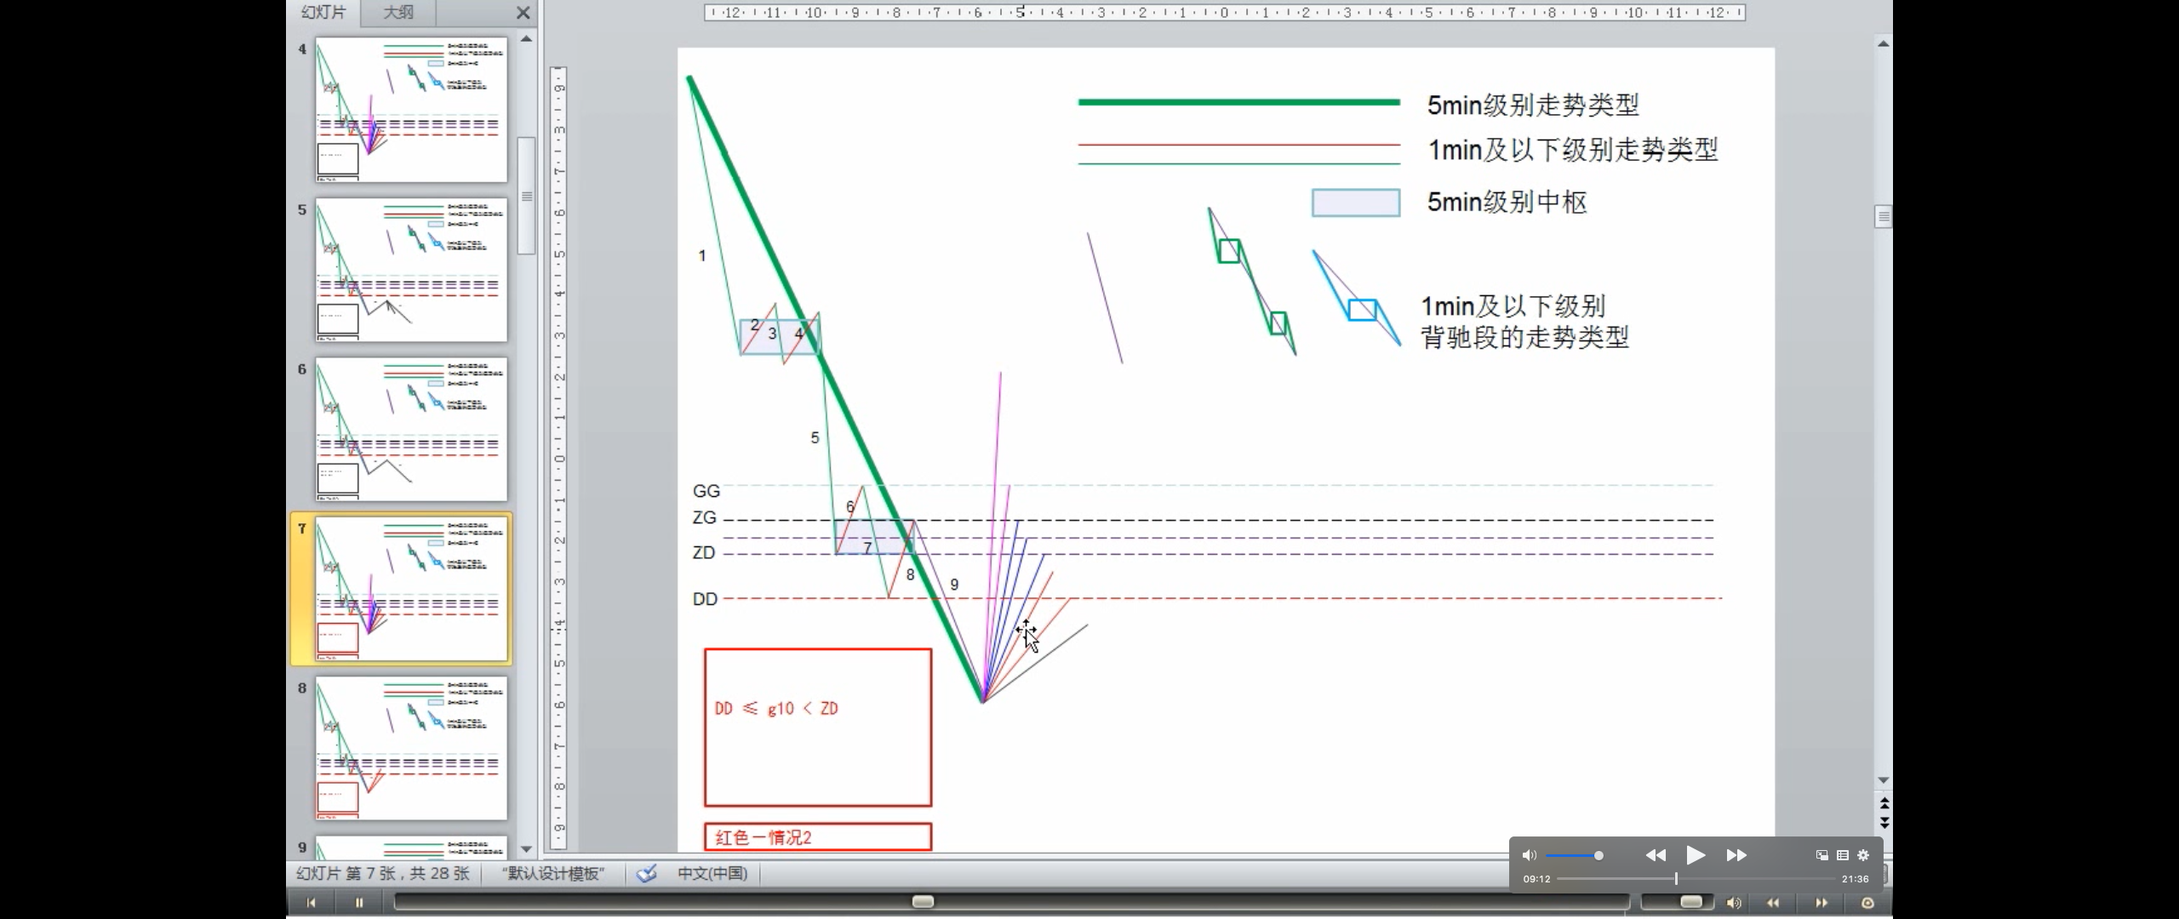
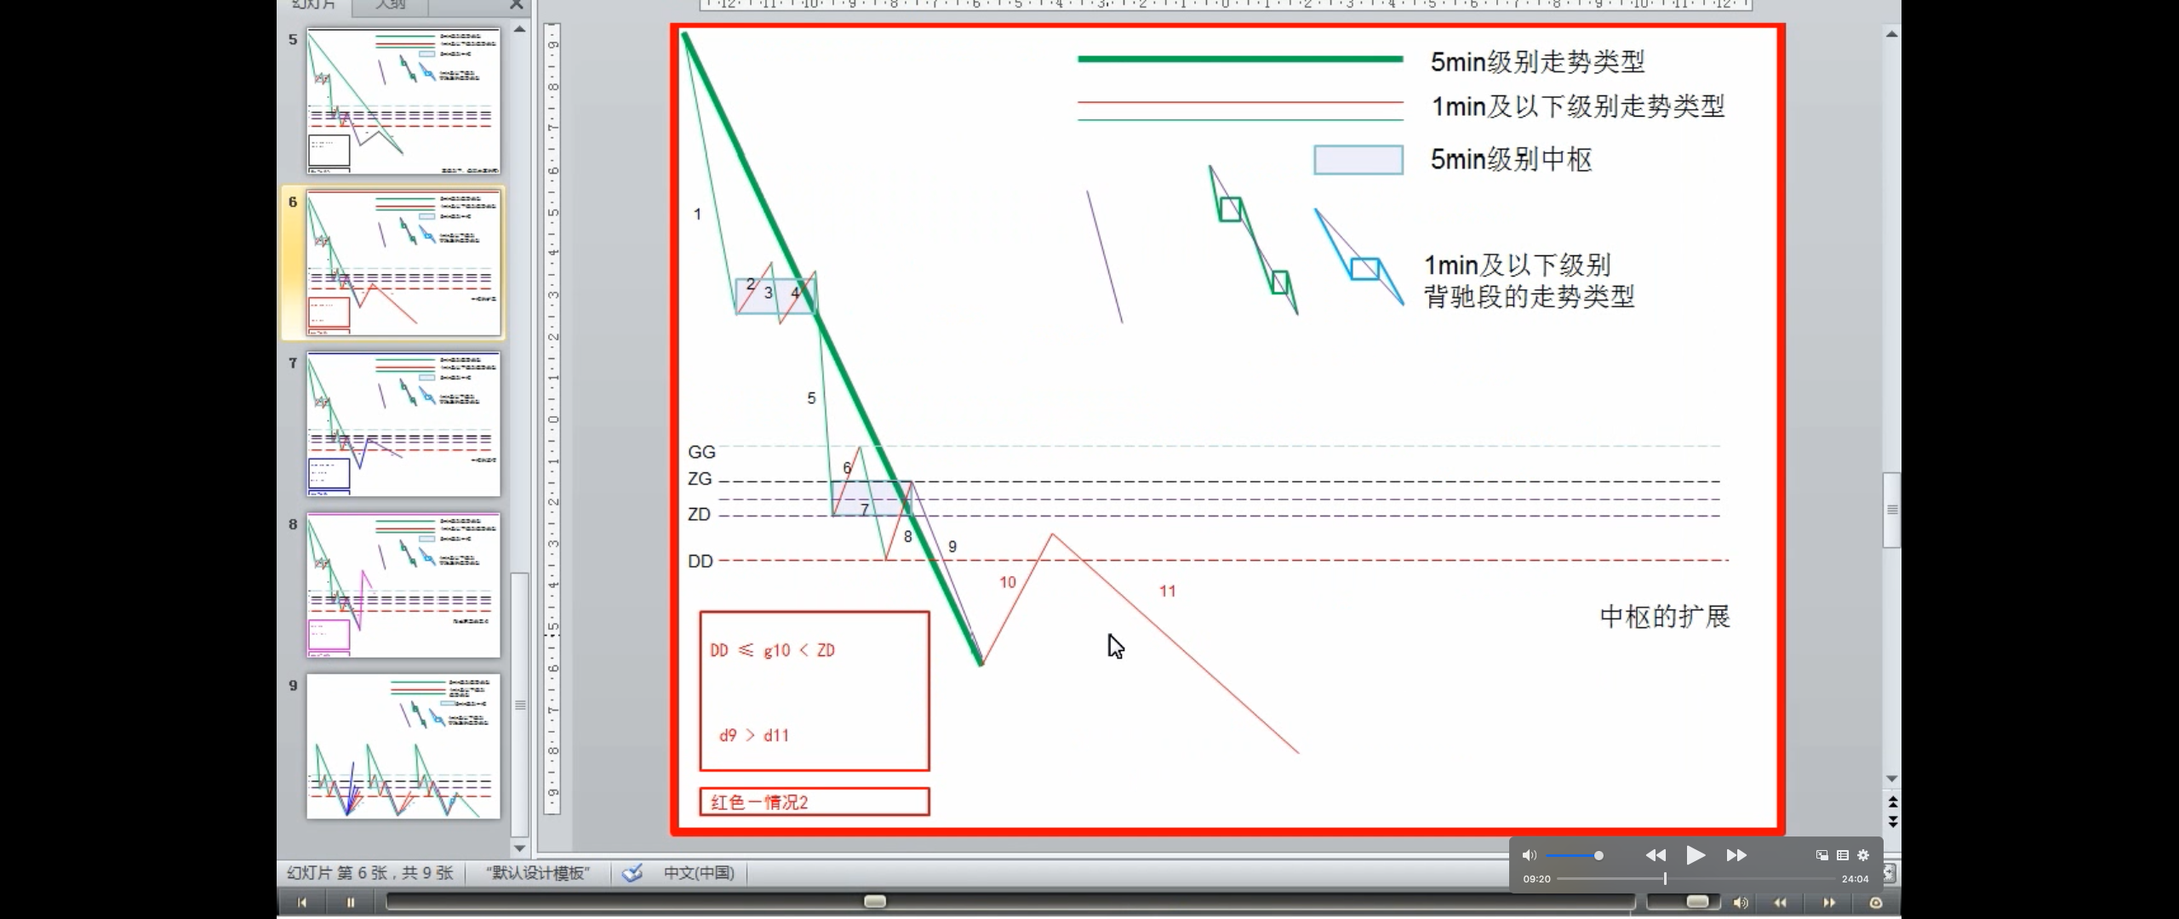
update

Changed region(s): [[0.125, 0.0, 0.875, 1.0], [0.375, 0.9778, 0.4375, 1.0]]

diff --git a/29.教你炒股票29：转折的力度与级别/教你炒股票29：转折的力度与级别.md b/29.教你炒股票29：转折的力度与级别/教你炒股票29：转折的力度与级别.md
@@ -2,20 +2,18 @@
 
 ![](./1.png)
 
-> 趋势才有转折，盘整不存在转折问题
->
-> - 定义：转折
-> - 上涨的转折
-> - 下跌的转折
+> - 定义：转折：趋势才有转折，盘整不存在转折问题
+>   - 上涨的转折
+>   - 下跌的转折
 
 在某级别的盘整中，或者说围绕某级别中枢的震荡、延续中，不存在转折的问题，除非站在次级别图形中，才有转折问题的探讨。对于**上涨的转折**，有两种情况：下跌与盘整；对于**下跌的转折**，也有两种情况：上涨与盘整。
 ![](./2.png)
 
-> 疑问：扩展=扩张（即级别升级-前面课程）
+> 疑问：扩展=扩张=升级（即级别升级-前面课程）
 >
-> 转折是有级别的
+> 转折是有级别的（注解：因为趋势是有级别的）
 
-> 关于转折与背驰的关系
+> 转折与背驰的关系
 >
 > - 背驰-转折定理
 
@@ -24,48 +22,82 @@
 ![](./4.png)
 ![](./5.png)
 ![](./6.png)
-![](./7.png)
-![](./8.png)
-![](./9.png)
-![](./10.png)
-![](./11.png)
-![](./12.png)
-![](./13.png)
-![](./14.png)
-![](./15.png)
 
-该定理的证明有点抽象，估计大多数的人都没兴趣，**那就用一个例子来说明，也大致知道证明的轮廓，更重要的是，这样，各位对走势的形成有一个更深切的认识**。例如，一个 5 分钟背驰段的下跌，最终通过 1 分钟以及 1 分钟以下级别的精确定位，最终可以找到背驰的精确点，其后就发生反弹。注意，反弹只是一般的术语，在本 ID 的理论中，对这反弹会有一个很明确的界定，就是包括三种情况：一、该趋势最后一个中枢的级别扩展、二、该级别更大级别的盘整、三该级别以上级别的反趋势。
+> 精确买卖点的寻找方法（区间套：27 课）
+>
+> 下跌背驰后的反弹的三种情况
+
+该定理的证明有点抽象，估计大多数的人都没兴趣，**那就用一个例子来说明，也大致知道证明的轮廓，更重要的是，这样，各位对走势的形成有一个更深切的认识**。例如，**一个 5 分钟背驰段的下跌，最终通过 1 分钟以及 1 分钟以下级别的精确定位，最终可以找到背驰的精确点，其后就发生反弹**。注意，反弹只是一般的术语，在本 ID 的理论中，**对这反弹会有一个很明确的界定，就是包括三种情况：** 一、该趋势最后一个中枢的级别扩展、二、该级别更大级别的盘整、三该级别以上级别的反趋势。
 ![](./3.png)
 
 一、该趋势最后一个中枢的级别扩展
 
-对于 5 分钟级别趋势发生背驰的情况，那这个 5 分钟级别的趋势里所具有的中枢都是 5 分钟级别的，假设共有 N 个，显然，这个 N>=2。考虑最后一个中枢的情况，最后的背驰段，跌破该中枢后，该背驰段显然是一个 1 分钟以下级别的走势，否则就和该中枢是 5 分钟级别趋势的最后一个中枢的前提矛盾了。**该背驰段（注解：图中 9）出现（注解：次级别的）第一类买点发生反弹**，显然，该反弹一定触及最后一个中枢的 DD=min(dn)，也就是围绕该中枢震荡的最低点，否则，如果反弹连这都触及不了，就等于在下面又至少形成一个新的 5 分钟中枢，这与上中枢是最后一个矛盾。**这种只触及最后一个中枢的 DD=min(dn)的反弹（注解：大于等于 DD 且小于 ZD），就是背弛后最弱的反弹，这种反弹，将把最后一个中枢变成一个级别上的扩展，例如，把 5 分钟的中枢扩展成 30 分钟甚至更大的中枢。**
-![](./16.png)
-![](./18.png)  
+> 该趋势最后一个中枢的级别扩展/扩张/升级，是力度最弱的反弹
+
+对于 5 分钟级别趋势发生背驰的情况，那这个 5 分钟级别的趋势里所具有的中枢都是 5 分钟级别的，假设共有 N 个，显然，这个 N>=2。考虑最后一个中枢的情况，最后的背驰段，跌破该中枢后，该背驰段显然是一个 1 分钟以下级别的走势，否则就和该中枢是 5 分钟级别趋势的最后一个中枢的前提矛盾了。**该背驰段（注解：图中 9）出现（注解：次级别的-1 分钟）第一类买点发生反弹**，显然，该反弹一定触及最后一个中枢的 DD=min(dn)，也就是围绕该中枢震荡的最低点，否则，如果反弹连这都触及不了，就等于在下面又至少形成一个新的 5 分钟中枢，这与上中枢是最后一个矛盾。**这种只触及最后一个中枢的 DD=min(dn)的反弹（注解：大于等于 DD 且小于 ZD），就是背弛后最弱的反弹，这种反弹，将把最后一个中枢变成一个级别上的扩展，例如，把 5 分钟的中枢扩展成 30 分钟甚至更大的中枢。**
+![](./3.png)
+![](./7.png)
+![](./10.png)
+![](./6.png)
+![](./9.png)
+
+> 一般这种情况出现得特别少
+>
+> 遇到这种情况，找机会马上退出
+
 前面说过，第一类买点是绝对安全的，即使是这样一种最低级别的反弹，也有足够的空间让买入获利，而且，**一般这种情况出现得特别少，很特殊的情况，但理论上，是要完全精确的，不能放过任何一种情况，如果不幸碰到这种情况，在资金利用率的要求下，当然是要找机会马上退出，否则就会浪费时间了。**
 
+> 盘整背驰中转化成第三类卖点，与这种情况的不同
+>
 > 疑问：这里没懂有什么区别
 
-注意，这种情况和盘整背驰中转化成第三类卖点的情况不同，那种情况下，反弹的级别一定比最后一个中枢低，而这种情况，反弹的级别一定等于或大于最后一个中枢的。因此，这两种情况，不难区分。
-![](./17.png)
-![](./18.png)
+注意，这种情况和盘整背驰中转化成第三类卖点的情况不同，那种情况下，反弹的级别一定比最后一个中枢低，而这种情况，反弹的级别一定等于或大于最后一个中枢的（疑问：不也是小于吗？）。因此，这两种情况，不难区分。
+![](./7.png)
+![](./8.png)
 
-二、该级别更大级别的盘整、三、该级别以上级别的反趋势。
+二、该级别更大级别的盘整、
+三、该级别以上级别的反趋势。
 
-这二种情况就是发生转折的两种情况，原理是一样的，只是相应的力度有区别。当反弹至少要重新触及最后一个中枢，这样，将发生转折，也就是出现盘整与上涨两种情况，对于上面 5 分钟下跌的例子，就意味着，将出现 5 分钟级别更大的盘整或 5 分钟级别以上的上涨，两段走势类型的连接，就有两种情况出现：下跌+盘整，或者下跌+上涨。注意，这里的盘整的中枢级别一定大于下跌中的中枢级别，否则就和下跌的延伸或第一种该趋势最后一个中枢的级别扩展搞混了。而上涨的中枢，不一定大于上跌中的中枢，例如，一个 5 分钟级别的下跌后反过来是一个 5 分钟级别的上涨，这是很正常的，但如果是盘整，那就至少是 30 分钟级别的。
+> 当反弹触及最后一个中枢
 
-有人总是搞不明白为什么“下跌+盘整”中盘整的中枢级别一定大于下跌中的中枢，这里不妨用一个例子说明一下：例如，还是一个 5 分钟的下跌，那至少有两个中枢，整个下跌，最一般的情况就是 a+A+b+B+c，其中的 a\b\c，其级别最多就是 1 分钟级别的，甚至最极端的情况，可以就是一个缺口。而 A、B，由于是 5 分钟级别的中枢，那至少由 3 段 1 分钟的走势类型构成，如果都按 1 分钟级别的走势类型来计量，而且不妨假设 a\b\c 都是 1 分钟的走势类型，那么 a+A+b+B+c 就有 9 个 1 分钟的走势类型。
+这二种情况就是发生转折的两种情况，原理是一样的，只是相应的力度有区别。**当反弹至少要重新触及最后一个中枢**，这样，**将发生转折，也就是出现盘整与上涨两种情况**，对于上面 5 分钟下跌的例子，就意味着，将出现 5 分钟级别更大的盘整或 5 分钟级别以上的上涨，两段走势类型的连接，就有两种情况出现：下跌+盘整，或者下跌+上涨。**注意，这里的盘整的中枢级别一定大于下跌中的中枢级别，否则就和下跌的延伸或第一种该趋势最后一个中枢的级别扩展搞混了（疑问：为什么盘整的一定大于下跌的级别？）**。而上涨的中枢，不一定大于上(注解：下)跌中的中枢，例如，一个 5 分钟级别的下跌后反过来是一个 5 分钟级别的上涨，这是很正常的，但如果是盘整，那就至少是 30 分钟级别的。
+![](./11.png)
+![](./12.png)
+![](./13.png)
+![](./20.png)
 
-而一个 30 分钟的盘整，至少有 3 个 5 分钟的走势类型，而 1 个 5 分钟的走势类型，至少有 3 个 1 分钟的走势类型，也就是一个 30 分钟的盘整，就至少有 9 个 1 分钟的走势类型，这和上面 a+A+b+B+c 的数量是一致的。从这数量平衡的角度，就知道为什么“下跌+盘整”中盘整的级别一定比下跌的级别大了，如果级别一样，例如一个 5 分钟的盘整，只有 3 个 1 分钟的走势类型，那和 9 就差远了，也不匹配。当然，“下跌+盘整”中盘整的级别一定比下跌的级别大，最主要的原因还不是这个，而是上面说到的，如果该级别一样，那只有两种情况，下跌延伸或下跌最后一个中枢扩展，和“下跌+盘整”是不搭界的。
+> 为什么“下跌+盘整”中盘整的中枢级别一定大于下跌中的中枢？（疑问：还是没明白）
+>
+> 走势类型表达式：a+A+b+B+c
+
+有人总是搞不明白为什么“下跌+盘整”中盘整的中枢级别一定大于下跌中的中枢，这里不妨用一个例子说明一下：例如，还是一个 5 分钟的下跌，那至少有两个中枢，整个下跌，最一般的情况就是 a+A+b+B+c，其中的 a\b\c，其级别最多就是 1 分钟级别的，甚至最极端的情况，可以就是一个缺口。**而 A、B，由于是 5 分钟级别的中枢，那至少由 3 段 1 分钟的走势类型构成**，如果都按 1 分钟级别的走势类型来计量，而且不妨假设 a\b\c 都是 1 分钟的走势类型，那么 a+A+b+B+c 就有 9 个 1 分钟的走势类型。
+而一个 30 分钟的盘整，至少有 3 个 5 分钟的走势类型，而 1 个 5 分钟的走势类型，至少有 3 个 1 分钟的走势类型，**也就是一个 30 分钟的盘整，就至少有 9 个 1 分钟的走势类型，这和上面 a+A+b+B+c 的数量是一致的。从这数量平衡的角度，就知道为什么“下跌+盘整”中盘整的级别一定比下跌的级别大了**，如果级别一样，例如一个 5 分钟的盘整，只有 3 个 1 分钟的走势类型，那和 9 就差远了，也不匹配。当然，**“下跌+盘整”中盘整的级别一定比下跌的级别大，最主要的原因还不是这个，而是上面说到的，如果该级别一样，那只有两种情况，下跌延伸或下跌最后一个中枢扩展，和“下跌+盘整”是不搭界的。**
 
 有人可能还有疑问，如果下跌最后一个中枢扩展，例如 5 分钟扩展成 30 分钟，那和 5 分钟级别下跌+30 分钟级别盘整有什么区别？这区别大了，因为在“5 分钟级别下跌+30 分钟级别盘整”，也就是“下跌+盘整”中，下跌和盘整都是完成的走势类型，这意味着是两个走势类型的连接。而下跌最后一个中枢扩展，是一个未完成的走势类型的延续，还在一个走势类型里。例如，在上面的 a+A+b+B+c 里，如果 B+c 发生中枢扩展，从 5 分钟扩展成 30 分钟的，那么 a+A+b 就是一个 5 分钟的走势类型，把 a+A+b 用 a~表示，而 B+c 发生中枢扩展用 A~表示，那么整个走势就表示成 a~+ A~，其后的走势还可以继续演化，形成 a~+A~+b~+B~+c~，也就是扩展成一个 30 分钟级别的下跌，当然还可以有其他的演化，总之，是必须把走势类型给完成了，这和“下跌+盘整”的情况显然是不同的。
+![](./14.png)
+![](./20.png)
 
 本 ID 的理论是最市场走势最精确的分析，必须把所有情况以及其分辨了然于胸，才可能对市场的走势有一个精确的把握。如果本 ID 把这套理论出版，书名就可以是《《市场哲学的数学原理》，因为本 ID 的理论的严密性以及对市场的意义，一点不比牛顿对物理的意义差，这一点，是必须逐步明确认识的。而且，本 ID 这套理论，是建立在纯数学的推理上的，完全没有发生爱因斯坦对牛顿颠覆等类似无聊事情的可能。不了解这一点，是不可能真正理解本 ID 理论的，因此就会“学如不及，犹恐失之”。
 
-以上三种情况，就完全分类了某级别背驰后的级别与力度，也就是某级别的第一类买点后将发生怎么样的情况，而第一类卖点的情况是一样的，只是方向相反。注意，这里说的是最精确的情况，由于第一种情况很少发生且和第二种情况有所类似，所以粗糙地说，也可以说背驰以后就意味着盘整和反趋势。那么，怎么分别这几种情况，关键就是看反弹中第 1 个前趋势最后一个中枢级别的次级别走势（例如前面的下跌是 5 分钟级别，就看 1 分钟级别的第 1 次反弹），是否重新回抽最后一个中枢里，如果不能，那第一种情况的可能就很大了，而且也证明反弹的力度值得怀疑，当然这种判别不是绝对的，但有效性很大。
+> 第一类卖点的情况是一样的，只是方向相反
+
+**以上三种情况，就完全分类了某级别背驰后的级别与力度，也就是某级别的第一类买点后将发生怎么样的情况，而第一类卖点的情况是一样的，只是方向相反**。注意，这里说的是最精确的情况，由于第一种情况很少发生且和第二种情况有所类似，所以粗糙地说，也可以说背驰以后就意味着盘整和反趋势。**那么，怎么分别这几种情况，关键就是看反弹中第 1 个前趋势最后一个中枢级别的次级别走势（例如前面的下跌是 5 分钟级别，就看 1 分钟级别的第 1 次反弹），是否重新回抽最后一个中枢里，如果不能，那第一种情况的可能就很大了，而且也证明反弹的力度值得怀疑，当然这种判别不是绝对的，但有效性很大。**
+![](./15.png)
+
+> 实例
 
 例如，这次 20070206 的反弹，用 5 分钟背驰段，然后考察 1 分钟以及 1 分钟以下级别的背驰进行精确定位，可以极为精确地把握这个底部，而且在实践中，很多人按照本 ID 的理论都把握住了，那么，其后的反弹，第一波是 1 分钟走势马上回到从 2980 开始的 5 分钟下跌的最后一个中枢里，这样就意味着第一种最弱的情况可能性可以完全排除了，其后，1 分钟的走势继续完成，扩展成一个 5 分钟的上涨，在 20070207 的 11 点前后，一个 1 分钟的背驰制造了上涨的结束，其后进入一个中枢的震荡中，这个中枢，按照本章的定理，就可以断言，至少是 5 分钟级别的，而实际上演化成一个 30 分钟级别的，这意味着，一个快速的 5 分钟上涨的可能就没有了，后面只有两种演化的可能，就是一个 30 分钟以上级别的盘整，或者是一个 30 分钟以上的上涨，至于哪种情况，就必须看后面走势的演化。
+![](./16.png)
+![](./17.png)
+![](./18.png)
+![](./19.png)
 
-而对于实际的操作，这两种情况并没有多大的区别，例如是盘整还是上涨，关键看突破第一个中枢后是否形成第三类买点，而操作中，是在第一、二类买点先买了，然后观察第三类买点是否出现，出现就继续持有，否则就可以抛出，因此在操作上，不会造成任何困难。当然，如果是资金量特别小，或者对本 ID 的理论达到小学毕业水平，那么完全可以在突破的次级别走势背驰时先出掉，然后看回试是否形成第三类买点，形成就回补，不形成就不回补，就这么简单。当然，要达到这种境界，首先要对本 ID 的理论小学毕业，否则，你根本分辨不清楚盘整背驰与第三类买点的转化关系，怎么可能操作？而且，这种操作，必须反复看图、实际操作才可能精通、熟练的。当然，如果真精通、熟练了，除了同样是本 ID 小学已经毕业的人，几乎没有人是你的对手了。
+**而对于实际的操作，这两种情况并没有多大的区别，例如是盘整还是上涨，关键看突破第一个中枢后是否形成第三类买点，而操作中，是在第一、二类买点先买了，然后观察第三类买点是否出现，出现就继续持有，否则就可以抛出，因此在操作上，不会造成任何困难。当然，如果是资金量特别小，或者对本 ID 的理论达到小学毕业水平，那么完全可以在突破的次级别走势背驰时先出掉，然后看回试是否形成第三类买点，形成就回补，不形成就不回补，就这么简单**。当然，要达到这种境界，首先要对本 ID 的理论小学毕业，否则，你根本分辨不清楚盘整背驰与第三类买点的转化关系，怎么可能操作？**而且，这种操作，必须反复看图、实际操作才可能精通、熟练的**。当然，如果真精通、熟练了，除了同样是本 ID 小学已经毕业的人，几乎没有人是你的对手了。
+![](./12.png)
+![](./13.png)
 
-那么，实际操作中，怎么才能达到效率最高。一个可被理论保证的方法就是：在第一次抄底时，最好就是买那些当下位置离最后一个中枢的 DD=min(dn)幅度最大的，所谓的超跌，应该以此为标准。因为本章的定理保证了，反弹一定达到 DD=min(dn)之上，然后在反弹的第 1 波次级别背驰后出掉，如果这个位置还不能达到最后一个中枢，那么这个股票可以基本不考虑，当然，这可能有例外，但可能性很小。然后在反弹的第一次次级别回试后买入那些反弹能达到最后一个中枢的股票而且最好是突破该中枢的而且回试后能站稳的，根据走势必完美，一定还有一个次级别的向上走势类型，如果这走势类型出现盘整背驰，那就要出掉，如果不出现，那就要恭喜你了，你买到了一个所谓 V 型反转的股票，其后的力度当然不会小。至于如何预先判断 V 型反转，这就不是本章定理可以解决的问题，必须在以后的课程里才能解决。
+> 实际操作中，怎么才能达到效率最高
+
+那么，**实际操作中，怎么才能达到效率最高**。**一个可被理论保证的方法就是：** 在第一次抄底时，最好就是买那些当下位置离最后一个中枢的 DD=min(dn)幅度最大的，所谓的超跌，应该以此为标准。**因为本章的定理保证了，反弹一定达到 DD=min(dn)之上，然后在反弹的第 1 波次级别背驰后出掉，如果这个位置还不能达到最后一个中枢，那么这个股票可以基本不考虑，当然，这可能有例外，但可能性很小**。然后在反弹的第一次次级别回试后买入那些反弹能达到最后一个中枢的股票而且最好是突破该中枢的而且回试后能站稳的，根据走势必完美，一定还有一个次级别的向上走势类型，如果这走势类型出现盘整背驰，那就要出掉，如果不出现，那就要恭喜你了，你买到了一个所谓 V 型反转的股票，其后的力度当然不会小。至于如何预先判断 V 型反转，这就不是本章定理可以解决的问题，必须在以后的课程里才能解决。
+![](./9.png)
+![](./12.png)
